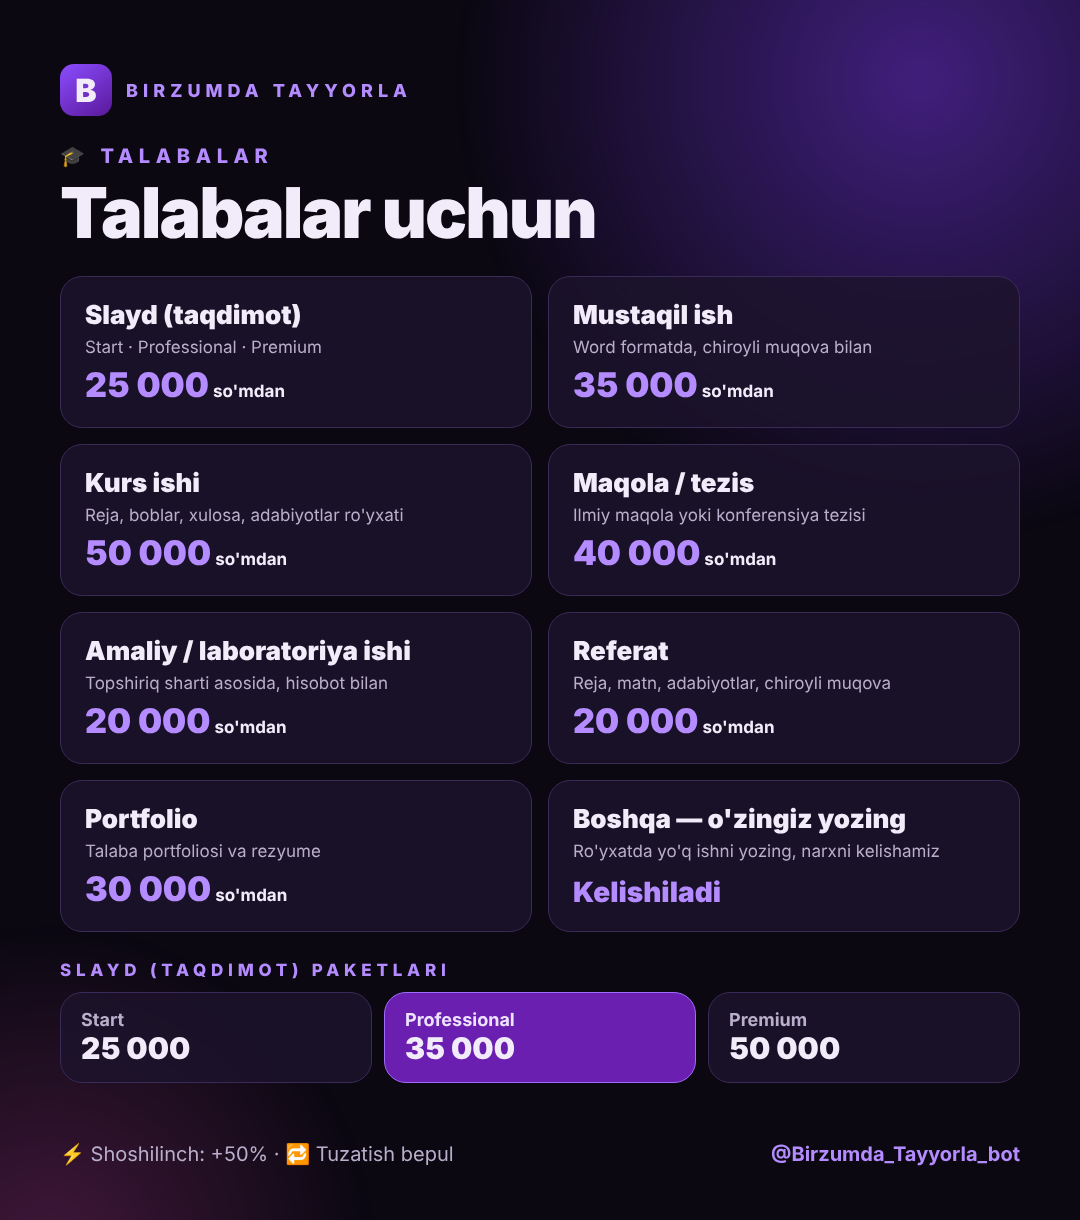
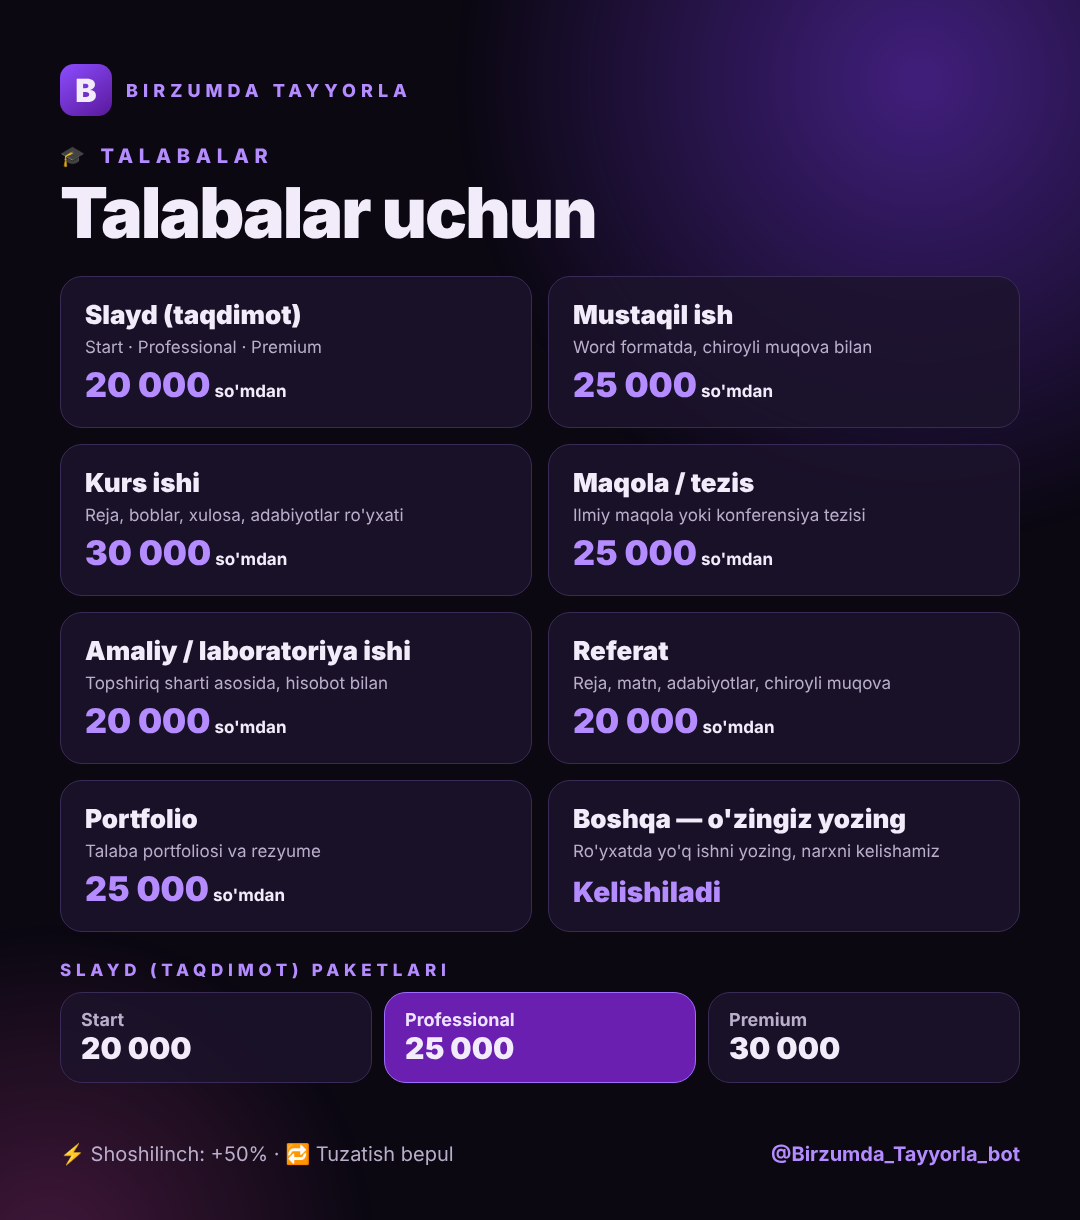
Talabalar narxi: 20 000 - 30 000
Claude-Session: https://claude.ai/code/session_0188Br2AHP1GhbQw3ASn9YfP

diff --git a/bot.py b/bot.py
@@ -115,16 +115,16 @@ CATALOG = {
         "title": "🎓 Talabalar uchun",
         "services": {
             "taqdimot": {"name": "Slayd (taqdimot)", "packages": {
-                "start": ("Start", 25000, "10–12 slayd, zamonaviy dizayn, 1 kun"),
-                "pro": ("Professional", 35000, "15–20 slayd, animatsiya, diagrammalar, 🐢 Toshbaqa o'qituvchi, 1–2 kun"),
-                "premium": ("Premium", 50000, "20–25 slayd, Morph, neon dizayn, 🐢 Toshbaqa o'qituvchi, nutq matni, 2–3 kun"),
+                "start": ("Start", 20000, "10–12 slayd, zamonaviy dizayn, 1 kun"),
+                "pro": ("Professional", 25000, "15–20 slayd, animatsiya, diagrammalar, 🐢 Toshbaqa o'qituvchi, 1–2 kun"),
+                "premium": ("Premium", 30000, "20–25 slayd, Morph, neon dizayn, 🐢 Toshbaqa o'qituvchi, nutq matni, 2–3 kun"),
             }},
-            "mustaqil": {"name": "Mustaqil ish", "price": 35000, "desc": "Word formatda, chiroyli muqova bilan"},
-            "kurs": {"name": "Kurs ishi", "price": 50000, "desc": "Reja, boblar, xulosa, adabiyotlar ro'yxati"},
-            "maqola": {"name": "Maqola / tezis", "price": 40000, "desc": "Ilmiy maqola yoki konferensiya tezisi"},
+            "mustaqil": {"name": "Mustaqil ish", "price": 25000, "desc": "Word formatda, chiroyli muqova bilan"},
+            "kurs": {"name": "Kurs ishi", "price": 30000, "desc": "Reja, boblar, xulosa, adabiyotlar ro'yxati"},
+            "maqola": {"name": "Maqola / tezis", "price": 25000, "desc": "Ilmiy maqola yoki konferensiya tezisi"},
             "amaliy": {"name": "Amaliy / laboratoriya ishi", "price": 20000, "desc": "Topshiriq sharti asosida, hisobot bilan"},
             "referat": {"name": "Referat", "price": 20000, "desc": "Reja, matn, adabiyotlar, chiroyli muqova"},
-            "portfolio": {"name": "Portfolio", "price": 30000, "desc": "Talaba portfoliosi va rezyume"},
+            "portfolio": {"name": "Portfolio", "price": 25000, "desc": "Talaba portfoliosi va rezyume"},
             "boshqa": {"name": "Boshqa — o'zingiz yozing", "price": None, "desc": "Ro'yxatda yo'q ishni yozing, narxni kelishamiz"},
         },
     },
